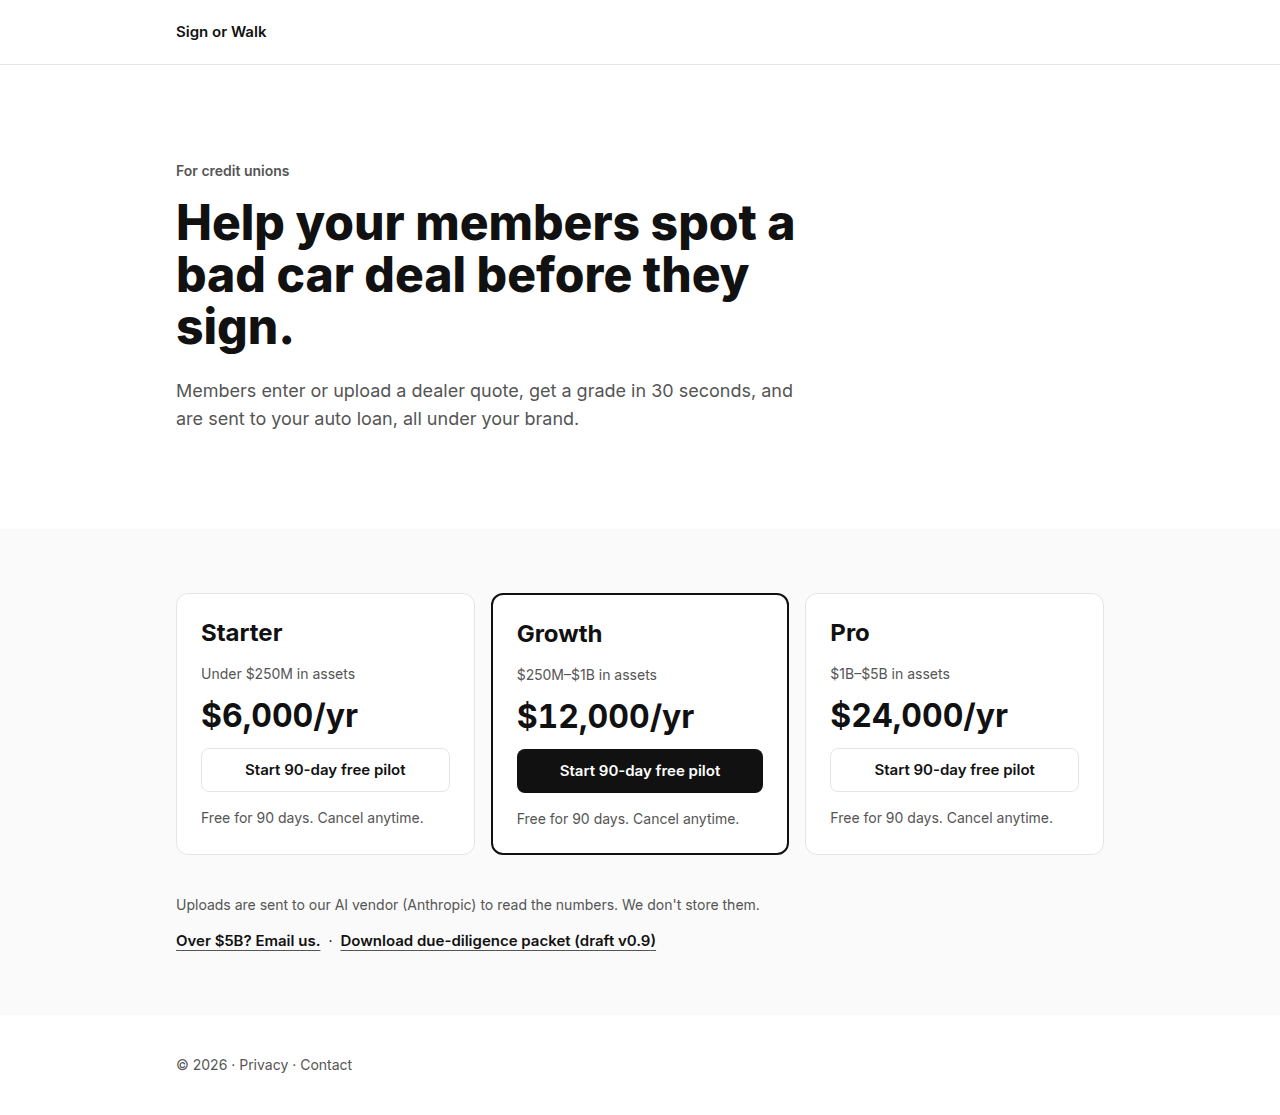
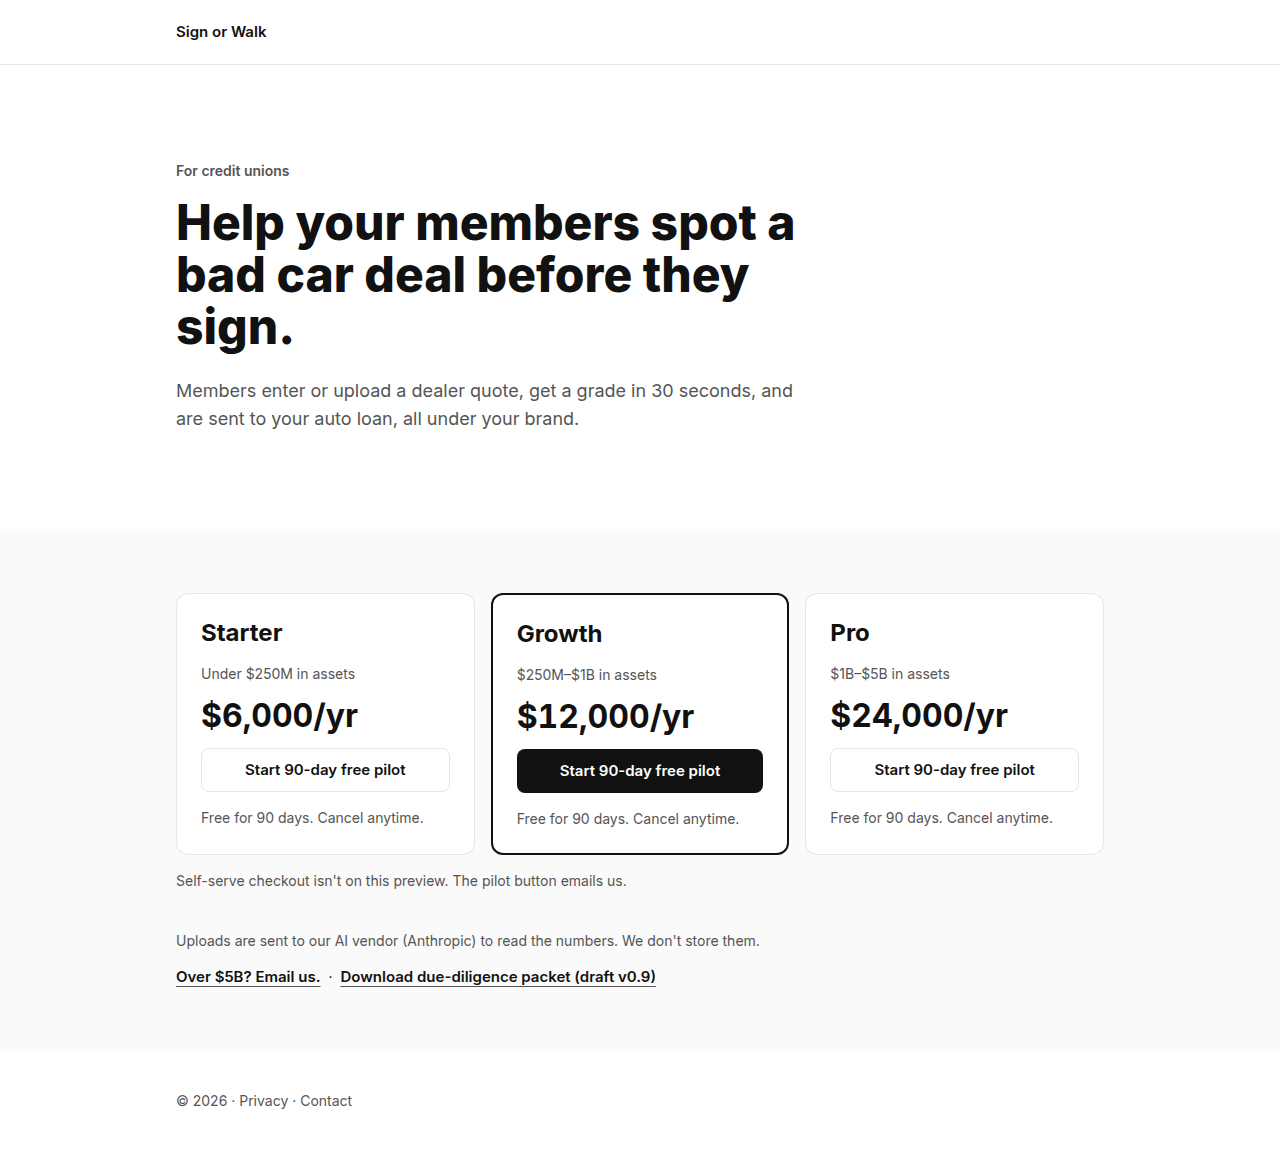
Send a new credit union to its allowlist and close CSP on store failure.
A store read failure uses frame-ancestors 'none'. After add, Settings asks for a website. The landing and get-started pages say self-serve checkout is not on this preview.

diff --git a/src/app/cu/admin/OwnerEditor.tsx b/src/app/cu/admin/OwnerEditor.tsx
@@ -6,6 +6,7 @@ import {
   setOwnerStatusAction,
 } from '../actions';
 import { BrandingForm } from '../[tenant]/dashboard/BrandingForm';
+import { deriveBrand, parseHex } from '@/cu/contrast';
 import { STATUS_ACTIVE, STATUS_PAUSED, type StoredTenantProfile } from '@/cu/tenant-directory';
 
 const field = 'mt-2 block h-12 w-full rounded-lg border cu-line px-4 text-[16px] font-normal';
@@ -41,6 +42,7 @@ export function OwnerEditor({
   emailEnabled,
   notifyEmail,
   notice,
+  askForSite = false,
 }: {
   mode: 'create' | 'edit' | 'confirm' | 'pause';
   profile: StoredTenantProfile | null;
@@ -52,6 +54,7 @@ export function OwnerEditor({
   emailEnabled: boolean;
   notifyEmail: string;
   notice: { tone: 'ok' | 'err'; text: string } | null;
+  askForSite?: boolean;
 }) {
   if (mode === 'pause' && profile) {
     return (
@@ -150,8 +153,9 @@ export function OwnerEditor({
             />
           </section>
 
-          <section aria-labelledby="settings-heading">
+          <section id="settings" aria-labelledby="settings-heading">
             <h2 id="settings-heading" className="text-[24px] font-bold leading-[30px]">Settings</h2>
+            {profile.embedOrigins.length === 0 ? <SiteBanner primary={primary} id={profile.id} name={profile.name} shortName={shortName} /> : null}
             <form action={saveOwnerSettingsAction} className="mt-6 grid gap-4">
               <input type="hidden" name="tenant" value={profile.id} />
               <label className="flex items-center gap-2 text-[15px] font-semibold">
@@ -164,15 +168,22 @@ export function OwnerEditor({
               </label>
               <label className={label}>Embed allowlist
                 <textarea
+                  id="embed-allowlist"
                   name="embedOrigins"
                   defaultValue={profile.embedOrigins.join('\n')}
                   rows={4}
+                  autoFocus={askForSite}
                   className="mt-2 block w-full rounded-lg border cu-line px-4 py-3 text-[16px] font-normal"
                 />
               </label>
               <p className="text-[14px] leading-[20px] cu-muted">One https origin per line. This site can always frame the check.</p>
               <button type="submit" className={button}>Save settings</button>
             </form>
+          </section>
+
+          <section aria-labelledby="staff-heading">
+            <h2 id="staff-heading" className="text-[24px] font-bold leading-[30px]">Staff access</h2>
+            <p className="mt-2 text-[14px] leading-[20px] text-[#555]">Until launch, only Sign or Walk admins can sign in. CU staff logins come later.</p>
           </section>
 
           <section aria-labelledby="status-heading">
@@ -195,6 +206,34 @@ export function OwnerEditor({
           </section>
         </>
       ) : null}
+    </div>
+  );
+}
+
+function SiteBanner({
+  primary, id, name, shortName,
+}: {
+  primary: string;
+  id: string;
+  name: string;
+  shortName: string;
+}) {
+  const derived = deriveBrand(id, {
+    name,
+    shortName: shortName || name,
+    primary: /^#[0-9a-fA-F]{6}$/.test(primary) ? primary : '#111111',
+    logoAspect: 1,
+  }, () => undefined);
+  const rgb = parseHex(derived.primary);
+  const tint = rgb ? `rgb(${rgb[0]} ${rgb[1]} ${rgb[2]} / 0.06)` : 'rgb(17 17 17 / 0.06)';
+  return (
+    <div
+      className="mt-4 rounded-lg border px-4 py-4 text-[14px] leading-[20px]"
+      style={{ background: tint, borderColor: derived.brandText }}
+      role="status"
+    >
+      <p>Add at least one website that can show the tool.</p>
+      <label htmlFor="embed-allowlist" className={`${button} mt-3`}>Add website</label>
     </div>
   );
 }

diff --git a/test/cu-owner.test.ts b/test/cu-owner.test.ts
@@ -4,7 +4,7 @@ import test from 'node:test';
 import { NextRequest } from 'next/server';
 import { POST as analyze } from '../src/app/api/cu/[tenant]/analyze/route';
 import { POST as extract } from '../src/app/api/cu/[tenant]/extract/route';
-import { appendAudit, formatAuditLine, readAudit, resetCuStore } from '../src/cu/cu-store';
+import { appendAudit, formatAuditLine, readAudit, readFrameAncestorCache, resetCuStore, writeFrameAncestorCache } from '../src/cu/cu-store';
 import { getCuTenant } from '../src/cu/tenants';
 import {
   listCuTenants,
@@ -72,8 +72,12 @@ test('the owner can add and remove a credit union without dropping the seeds', a
   assert.equal(audit.every(line => line.id === 'north-pier-cu' && !line.t.includes('@')), true);
   assert.equal(JSON.stringify(audit).includes('example'), false);
   assert.equal(
-    formatAuditLine({ t: '2026-10-15T14:30:00.000Z', action: 'pause' }, 'Larkspur'),
-    'Oct 15, 14:30 · Paused Larkspur',
+    formatAuditLine({ t: '2026-10-15T14:30:00.000Z', action: 'pause', who: 'owner' }, 'Larkspur CU'),
+    'Oct 15, 14:30 · Paused Larkspur CU · by owner',
+  );
+  assert.equal(
+    formatAuditLine({ t: '2026-10-15T14:50:00.000Z', action: 'branding', who: 'tenant' }, 'Larkspur CU'),
+    'Oct 15, 14:50 · Branded Larkspur CU · by tenant',
   );
   assert.deepEqual(parseEmbedOrigins('https://www.northpiercu.example\n'), ['https://www.northpiercu.example']);
   assert.equal(parseEmbedOrigins('*'), null);
@@ -88,7 +92,9 @@ test('the owner can add and remove a credit union without dropping the seeds', a
 
 test('a paused credit union is unavailable on the page and returns 404 from the APIs', async () => {
   resetCuStore();
+  writeFrameAncestorCache('larkspur-cu', "'self' https://www.larkspurcu.example", Date.now() + 30_000);
   await setTenantStatus('larkspur-cu', 'paused');
+  assert.equal(readFrameAncestorCache('larkspur-cu', Date.now()), undefined);
   assert.equal((await loadCuTenant('larkspur-cu'))?.status, 'paused');
   const analyzeRes = await analyze(new NextRequest('https://signorwalk.com/api/cu/larkspur-cu/analyze', {
     method: 'POST',
@@ -116,6 +122,11 @@ test('a paused credit union is unavailable on the page and returns 404 from the 
   assert.match(editor, /confirmId/);
   assert.match(editor, /cu-danger/);
   assert.match(editor, /'Pause'/);
+  assert.match(editor, /Add at least one website that can show the tool\./);
+  assert.match(editor, /Add website/);
+  assert.match(editor, /Until launch, only Sign or Walk admins can sign in\. CU staff logins come later\./);
+  assert.match(readFileSync('src/app/cu/actions.ts', 'utf8'), /need=site#embed-allowlist/);
+  assert.equal(admin.includes('font-mono'), false);
   assert.match(readFileSync('src/cu/tenant-directory.ts', 'utf8'), /Paused\. Members see an unavailable page\./);
   assert.match(admin, /STATUS_PAUSED/);
   assert.match(admin, /'Paused'/);

diff --git a/src/app/cu/admin/page.tsx b/src/app/cu/admin/page.tsx
@@ -38,7 +38,7 @@ function noticeFor(query: { saved?: string; error?: string; removed?: string }):
 export default async function AdminPage({
   searchParams,
 }: {
-  searchParams: Promise<{ cu?: string; section?: string; confirm?: string; saved?: string; error?: string; removed?: string }>;
+  searchParams: Promise<{ cu?: string; section?: string; confirm?: string; saved?: string; error?: string; removed?: string; need?: string }>;
 }) {
   const jar = await cookies();
   const session = verifySession(jar.get(CU_SESSION_COOKIE)?.value);
@@ -71,7 +71,7 @@ export default async function AdminPage({
         {selected && query.confirm === 'pause' ? (
           <OwnerEditor mode="pause" profile={(await getTenantProfile(selected.id))!} shortName="" primary="" secondary="" logoLight="" logoDark="" emailEnabled={false} notifyEmail="" notice={null} />
         ) : null}
-        {selected && query.confirm !== 'remove' && query.confirm !== 'pause' ? <EditTenant tenant={selected} notice={notice} /> : null}
+        {selected && query.confirm !== 'remove' && query.confirm !== 'pause' ? <EditTenant tenant={selected} notice={notice} askForSite={query.need === 'site'} /> : null}
         {!query.cu && usage ? <Usage tenants={tenants} /> : null}
         {!query.cu && !usage ? <Directory tenants={tenants} notice={notice} audit={await readAudit()} /> : null}
       </main>
@@ -82,9 +82,11 @@ export default async function AdminPage({
 async function EditTenant({
   tenant,
   notice,
+  askForSite,
 }: {
   tenant: ResolvedTenant;
   notice: { tone: 'ok' | 'err'; text: string } | null;
+  askForSite: boolean;
 }) {
   const profile = await getTenantProfile(tenant.id);
   if (!profile) return <p className="cu-err" role="alert">This credit union was not found.</p>;
@@ -104,6 +106,7 @@ async function EditTenant({
       emailEnabled={settings.emailEnabled}
       notifyEmail={settings.notifyEmail ?? ''}
       notice={notice}
+      askForSite={askForSite}
     />
   );
 }
@@ -128,7 +131,7 @@ function Directory({
       {audit.length > 0 ? (
         <section className="mt-10" aria-labelledby="audit-heading">
           <h2 id="audit-heading" className="text-[24px] font-bold leading-[30px]">Audit</h2>
-          <ul className="mt-4 max-w-full space-y-2 font-mono text-[14px] leading-[20px]">
+          <ul className="mt-4 max-w-full space-y-2 text-[14px] leading-[20px]">
             {audit.map(line => {
               const name = tenants.find(tenant => tenant.id === line.id)?.brand.shortName ?? line.id;
               return <li key={`${line.t}-${line.action}-${line.id}`}>{formatAuditLine(line, name)}</li>;

diff --git a/test/cu-embed.test.ts b/test/cu-embed.test.ts
@@ -210,7 +210,7 @@ test('embed CSP fails closed and does not fall back to the config seeds', async 
 
   markCuStoreUnavailable();
   const kv = await frameAncestorsForPath(path);
-  assert.equal(kv, "'self'");
+  assert.equal(kv, "'none'");
   assert.equal(kv.includes('harborlightcu.example'), false);
 
   const savedUrl = process.env.KV_REST_API_URL;
@@ -220,7 +220,7 @@ test('embed CSP fails closed and does not fall back to the config seeds', async 
   resetCuStore();
   try {
     const down = await frameAncestorsForPath(path);
-    assert.equal(down, "'self'");
+    assert.equal(down, "'none'");
     assert.equal(down.includes('harborlightcu.example'), false);
   } finally {
     if (savedUrl === undefined) delete process.env.KV_REST_API_URL;
@@ -256,6 +256,18 @@ test('embed ancestor lookups are cached for about 30s and the route requires the
   assert.equal(await resolveFrameAncestors(path, fail, now, 50), "'self'");
   assert.equal(await resolveFrameAncestors(path, fail, now + 1_000, 50), "'self'");
   assert.equal(failures, 2);
+
+  resetCuStore();
+  let storeCalls = 0;
+  const storeDown = async () => {
+    storeCalls += 1;
+    if (storeCalls === 1) throw new Error('store-unavailable');
+    return { embedOrigins: ['https://www.harborlightcu.example'] };
+  };
+  assert.equal(await resolveFrameAncestors(path, storeDown, now, 50), "'none'");
+  const recovered = await resolveFrameAncestors(path, storeDown, now + 1_000, 50);
+  assert.match(recovered, /https:\/\/www\.harborlightcu\.example/);
+  assert.equal(storeCalls, 2);
 
   resetCuStore();
   let misses = 0;

diff --git a/src/cu/cu-store.ts b/src/cu/cu-store.ts
@@ -278,13 +278,14 @@ const AUDIT_VERBS: Record<string, string> = {
 };
 const AUDIT_MONTHS = ['Jan', 'Feb', 'Mar', 'Apr', 'May', 'Jun', 'Jul', 'Aug', 'Sep', 'Oct', 'Nov', 'Dec'];
 
-export function formatAuditLine(line: Pick<AuditLine, 't' | 'action'>, name: string): string {
+export function formatAuditLine(line: Pick<AuditLine, 't' | 'action' | 'who'>, name: string): string {
   const date = new Date(line.t);
   const when = Number.isNaN(date.getTime())
     ? line.t
     : `${AUDIT_MONTHS[date.getUTCMonth()]} ${date.getUTCDate()}, ${String(date.getUTCHours()).padStart(2, '0')}:${String(date.getUTCMinutes()).padStart(2, '0')}`;
   const verb = AUDIT_VERBS[line.action] ?? line.action;
-  return `${when} · ${verb} ${name}`;
+  const who = line.who === 'tenant' ? 'by tenant' : 'by owner';
+  return `${when} · ${verb} ${name} · ${who}`;
 }
 
 export async function appendAudit(action: string, id: string, who: 'owner' | 'tenant' = 'owner'): Promise<void> {

diff --git a/src/cu/embed.ts b/src/cu/embed.ts
@@ -102,8 +102,8 @@ export function frameAncestorsAuthorized(header: string | null): boolean {
 
 /**
  * Stored allowlist for an embed route. A missing tenant is 'none'.
- * A thrown lookup, a KV error, or a timeout is 'self' and is not cached.
- * Config seeds are never the CSP fallback.
+ * A store failure is 'none' and is not cached. A thrown lookup or a timeout
+ * is 'self' and is not cached. Config seeds are never the CSP fallback.
  */
 export async function resolveFrameAncestors(
   pathname: string,
@@ -130,7 +130,8 @@ export async function resolveFrameAncestors(
     const value = frameAncestorSources(tenant.embedOrigins);
     writeFrameAncestorCache(id, value, now + FRAME_CACHE_MS);
     return value;
-  } catch {
+  } catch (error) {
+    if (error instanceof Error && error.message === 'store-unavailable') return "'none'";
     return "'self'";
   } finally {
     if (timer) clearTimeout(timer);

diff --git a/src/app/credit-unions/page.tsx b/src/app/credit-unions/page.tsx
@@ -74,10 +74,11 @@ export default function CreditUnionsPage() {
             })}
           </ul>
 
+          <p className="mt-4 text-[14px] leading-[20px] text-[#555]">Self-serve checkout isn't on this preview. The pilot button emails us.</p>
           <p className="mt-10 text-[14px] leading-[20px] cu-muted">{UPLOAD_DISCLOSURE}</p>
           <p className="mt-4 flex flex-wrap items-baseline gap-x-2 text-[14px] leading-[20px]">
             <a href={`mailto:${TALK_TO_US_EMAIL}`} className={textLink}>Over $5B? Email us.</a>
-            {' · '}
+            <span className="hidden md:inline">{' · '}</span>
             <a href="/credit-unions/packet" className={textLink}>Download due-diligence packet ({DOCUMENT_VERSION_LABEL})</a>
           </p>
         </div>

diff --git a/test/cu-platform.test.ts b/test/cu-platform.test.ts
@@ -240,6 +240,9 @@ test('growth copy and the worksheet route stay on the approved words', () => {
   assert.equal(page.includes(value), true);
   assert.match(page, /description: VALUE_LINE/);
   assert.match(page, /flex flex-wrap items-baseline gap-x-2/);
+  assert.match(page, /hidden md:inline">\{' · '\}/);
+  assert.match(page, /Self-serve checkout isn't on this preview\. The pilot button emails us\./);
+  assert.match(started, /Self-serve checkout isn't on this preview\. The pilot button emails us\./);
   assert.match(page, /Over \$5B\? Email us\./);
   assert.match(page, /\{' · '\}/);
   assert.match(page, /mailto:\$\{TALK_TO_US_EMAIL\}/);

diff --git a/test/templates.test.ts b/test/templates.test.ts
@@ -104,6 +104,7 @@ test('credit-union UI says Sign or Walk only in the header line', () => {
     const wordmark = file.endsWith('not-found.tsx') || file.endsWith('admin/page.tsx') || file.endsWith('Unavailable.tsx')
       ? (text.match(/>Sign or Walk</g) ?? [])
       : [];
-    assert.equal(hits.length, withLine.length + powered.length + wordmark.length, file);
+    const staff = file.endsWith('admin/OwnerEditor.tsx') ? (text.match(/Sign or Walk admins/g) ?? []) : [];
+    assert.equal(hits.length, withLine.length + powered.length + wordmark.length + staff.length, file);
   }
 });

diff --git a/src/app/credit-unions/get-started/page.tsx b/src/app/credit-unions/get-started/page.tsx
@@ -31,6 +31,7 @@ export default async function GetStartedPage({
         <p className="mt-6 text-[18px] leading-[28px] cu-muted">
           {CHECKOUT_STATUS === 'coming-soon' ? PILOT : 'Online checkout is not available on this site.'}
         </p>
+        <p className="mt-4 text-[14px] leading-[20px] text-[#555]">Self-serve checkout isn't on this preview. The pilot button emails us.</p>
         <a href={`mailto:${TALK_TO_US_EMAIL}`} className={`${button} mt-6`}>
           Email {TALK_TO_US_EMAIL}
         </a>

diff --git a/src/app/cu/actions.ts b/src/app/cu/actions.ts
@@ -182,7 +182,7 @@ export async function createOwnerTenantAction(formData: FormData) {
     redirect('/cu/admin?cu=new&error=profile');
   }
   await appendAudit('create', profile.id, 'owner');
-  redirect(`/cu/admin?cu=${profile.id}&saved=profile`);
+  redirect(`/cu/admin?cu=${profile.id}&need=site#embed-allowlist`);
 }
 
 export async function saveOwnerProfileAction(formData: FormData) {

diff --git a/src/cu/tenant-directory.ts b/src/cu/tenant-directory.ts
@@ -276,6 +276,7 @@ export async function setTenantStatus(id: string, status: 'active' | 'paused'): 
   if (!profile) throw new Error('missing');
   profile.status = status;
   await writeStoreJson(storeKey(id, 'profile'), profile);
+  clearFrameAncestorCache(id);
 }
 
 export async function replaceEmbedOrigins(id: string, origins: string[]): Promise<void> {
